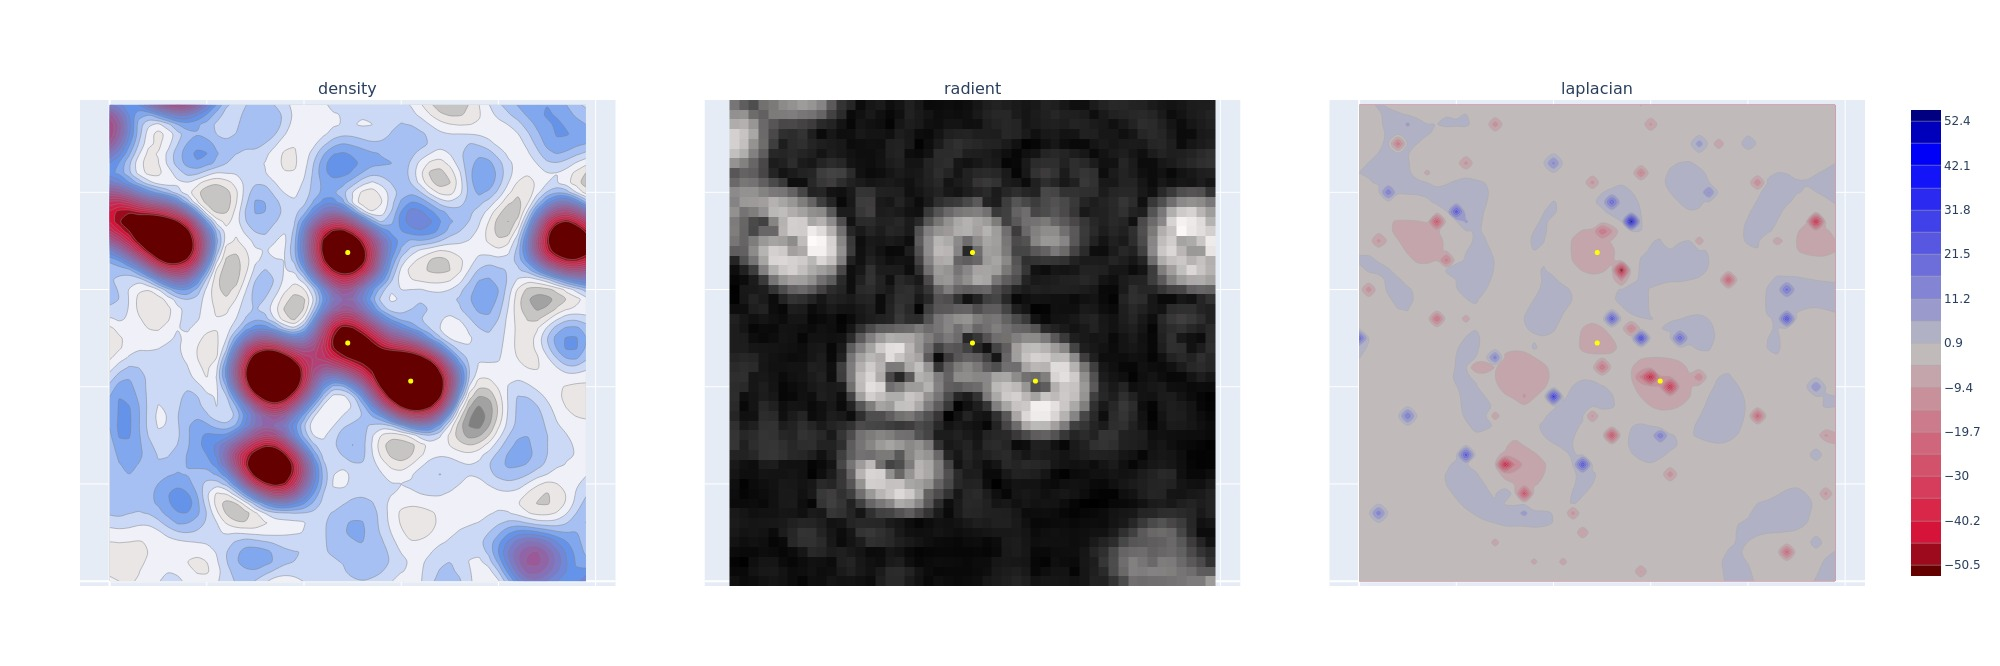
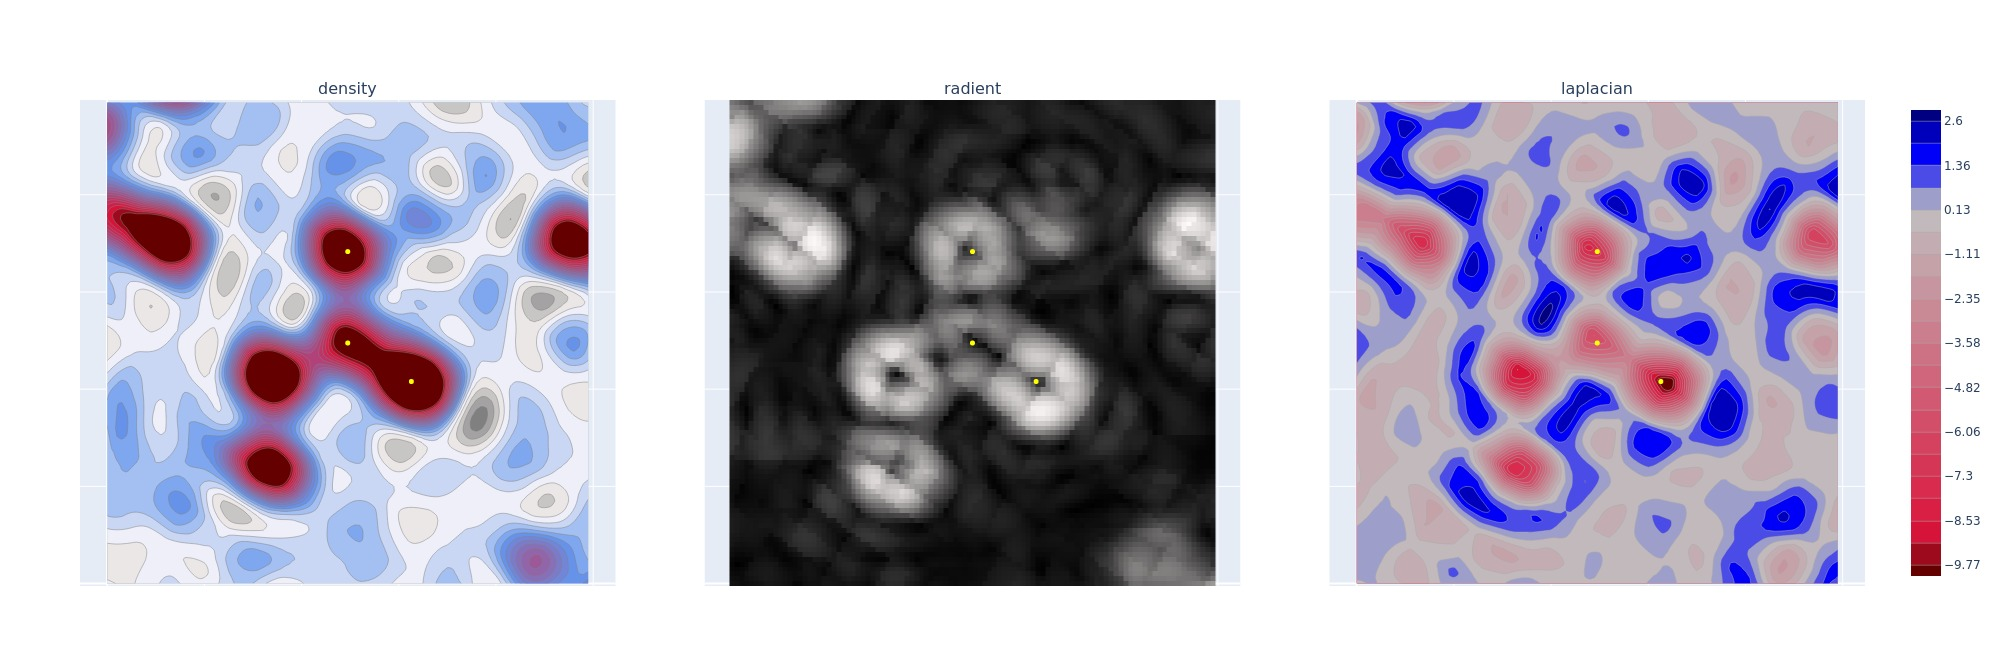
Analytic differentiation for multivariate

diff --git a/src/leuci_pol/interpolator.py b/src/leuci_pol/interpolator.py
@@ -283,14 +283,29 @@ class Multivariate(Interpolator):
         self._zfloor = -1
     
     ## implement abstract interface #########################################
+    def get_value(self, x, y, z):
+        return self.get_value_new(x,y,z)
+
     def get_radient(self, x, y, z):
-        return self.get_radient_numerical(x,y,z)
+        xn,yn,zn,coeffs = self.make_coeffs(x,y,z)
+        dx = self.get_value_multivariate(zn, yn, xn, coeffs,["x"])
+        dy = self.get_value_multivariate(zn, yn, xn, coeffs,["y"])
+        dz = self.get_value_multivariate(zn, yn, xn, coeffs,["z"])
+        return (abs(dx) + abs(dy) + abs(dz))/3
     
     def get_laplacian(self, x, y, z):
-        return self.get_laplacian_numerical(x,y,z)
+        xn,yn,zn,coeffs = self.make_coeffs(x,y,z)
+        ddx = self.get_value_multivariate(zn, yn, xn, coeffs,["x","x"])
+        ddy = self.get_value_multivariate(zn, yn, xn, coeffs,["y","y"])
+        ddz = self.get_value_multivariate(zn, yn, xn, coeffs,["z","z"])
+        return ddx+ddy+ddz
     ## iplement abstract interface ###########################################
 
-    def get_value(self, x, y, z):
+    def get_value_new(self, x, y, z):
+        xn,yn,zn,coeffs = self.make_coeffs(x,y,z)
+        return self.get_value_multivariate(zn, yn, xn, coeffs)
+
+    def get_value_old(self, x, y, z):
         # The method of linear interpolation is a version of my own method for multivariate fitting, instead of trilinear interpolation
         # NOTE I could extend this to be multivariate not linear but it has no advantage over bspline - and is slower and not as good 
         # Document is here: https://rachelalcraft.github.io/Papers/MultivariateInterpolation/MultivariateInterpolation.pdf                        
@@ -334,18 +349,74 @@ class Multivariate(Interpolator):
         #return self.get_value_multivariate(zn, yn, xn, self.polyCoeffs)
         return self.get_value_multivariate(zn, yn, xn, self.polyCoeffs)
         
-    def get_value_multivariate(self, x, y, z, coeffs):        
+    def get_value_multivariate(self, x, y, z, coeffs,wrt=[]):        
         #This is using a value scheme that makes sens of our new fitted polyCube
         #In a linear case it will be a decimal between 0 and 1          
+        calc_mat = coeffs
+        for partial in wrt:
+            if partial == "x":
+                calc_mat = self.diffWRTx(calc_mat)
+            elif partial == "y":
+                calc_mat = self.diffWRTy(calc_mat)
+            elif partial == "z":
+                calc_mat = self.diffWRTz(calc_mat)
+        
         value = 0
-        ii,jj,kk = coeffs.shape
+        ii,jj,kk = calc_mat.shape
         for i in range(ii):        
             for j in range(jj):            
                 for k in range(kk):                
-                    coeff = coeffs[i, j, k];                    
+                    coeff = calc_mat[i, j, k];                    
                     val = coeff * np.power(z, i) * np.power(y, j) * np.power(x, k)
                     value = value + val                                    
         return value
+
+    def diffWRTx(self,coeffs):        
+        x,y,z = coeffs.shape
+        partialX = np.zeros((x,y,z))
+        for i in range(1, x):
+            for j in range(0,y):
+                for k in range(0,z):
+                    partialX[i-1,j,k] = coeffs[i,j,k]*i
+        return partialX
+
+    def diffWRTy(self,coeffs):        
+        x,y,z = coeffs.shape
+        partialY = np.zeros((x,y,z))
+        for i in range(0, x):
+            for j in range(1,y):
+                for k in range(0,z):
+                    partialY[i,j-1,k] = coeffs[i,j,k]*j
+        return partialY
+    
+    def diffWRTz(self,coeffs):        
+        x,y,z = coeffs.shape
+        partialZ = np.zeros((x,y,z))
+        for i in range(0, x):
+            for j in range(0,y):
+                for k in range(1,z):
+                    partialZ[i,j,k-1] = coeffs[i,j,k]*k
+        return partialZ
+
+    def make_coeffs(self, x, y, z):                                        
+        # 1. Build the points around the centre as a cube - 8 points
+        vals = self.build_cube_around(x, y, z, self.points)
+        #2. Multiply with the precomputed matrix to find the multivariate polynomial
+        ABC = self.mult_vector(self.inv.get_invariant(), vals)
+        # 3. Put the 8 values back into a cube
+        polyCoeffs = np.zeros((self.points, self.points, self.points))
+        pos = 0
+        for i in range(self.points):
+            for j in range(self.points):                
+                for k in range(self.points):                    
+                    polyCoeffs[i, j, k] = ABC[pos]
+                    pos+=1        
+        #4. Adjust the values to be within this cube
+        pstart = (-1 * self.points / 2) + 1        
+        xn = x - np.floor(x) - pstart
+        yn = y - np.floor(y) - pstart
+        zn = z - np.floor(z) - pstart
+        return xn,yn,zn,polyCoeffs
             
 ####################################################################################################
 ### B-Spline

diff --git a/examples/egtst_ccp4.py b/examples/egtst_ccp4.py
@@ -6,9 +6,9 @@ Using WSL the show() functions creates an html page on localhost
 
 """
 ################### USER INPUTS #######################
-which_examples = [2,3] # could be 0-5
+which_examples = [1] # could be 0-5
 width = 8           # in angstrom
-samples = 50       # number of sample points along each axis to interpolate
+samples = 100       # number of sample points along each axis to interpolate
 degree = 3
 ########### A description of the examples #############
 examples = []
@@ -37,6 +37,12 @@ examples.append(["Fig03-em_6eex_bspline","6eex",
                   [("density",2,-1,0.9,0.5,(1,1),"RGB","bspline"),("radient",2,-1,1.0,1.0,(1,2),"BW","bspline"),("laplacian",1,0,0.9,0.9,(1,3),"RB","bspline")],
                   (1,3),
                   ("density","radient","laplacian")])       #3
+
+examples.append(["Fig03-em_6eex_linear","6eex",
+                  ["(3.638,8.536,8.108)","(2.894,9.166,9.274)","(4.849,8.296,8.176)"],
+                  [("density",2,-1,0.9,0.5,(1,1),"RGB","linear"),("radient",2,-1,1.0,1.0,(1,2),"BW","linear"),("laplacian",1,0,0.9,0.9,(1,3),"RB","linear")],
+                  (1,3),
+                  ("density","radient","laplacian")])       #4
 
 
 
